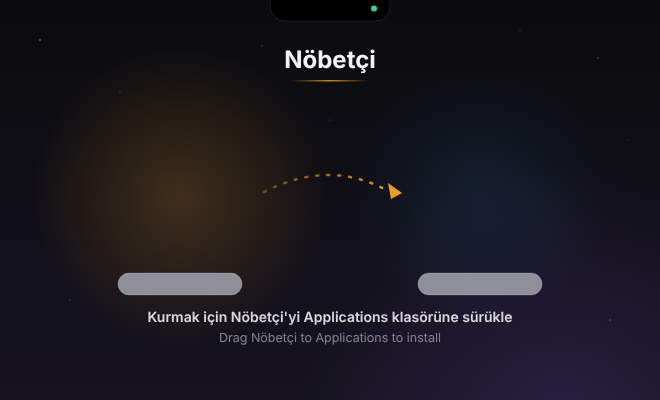
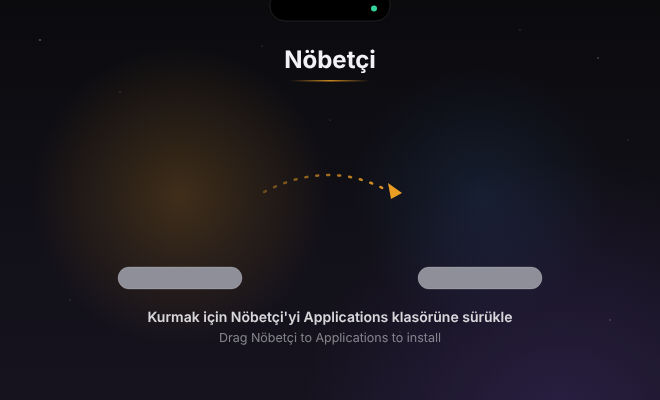
Disk image: line the plates up with the labels
Claude-Session: https://claude.ai/code/session_01WvLDGct6di2Zoi1RpXEREz

diff --git a/src/baykus/installer-art.ts b/src/baykus/installer-art.ts
@@ -203,7 +203,7 @@ function dmgBackground(ctx: CanvasRenderingContext2D) {
   // and white in Dark Mode, and this grey keeps both readable.
   for (const x of [app.x, folder.x]) {
     ctx.beginPath();
-    ctx.roundRect(x - 62, app.y + 77, 124, 22, 11);
+    ctx.roundRect(x - 62, app.y + 71, 124, 22, 11);
     ctx.fillStyle = "#8f8f9a";
     ctx.fill();
     ctx.strokeStyle = "rgba(255, 255, 255, 0.18)";
